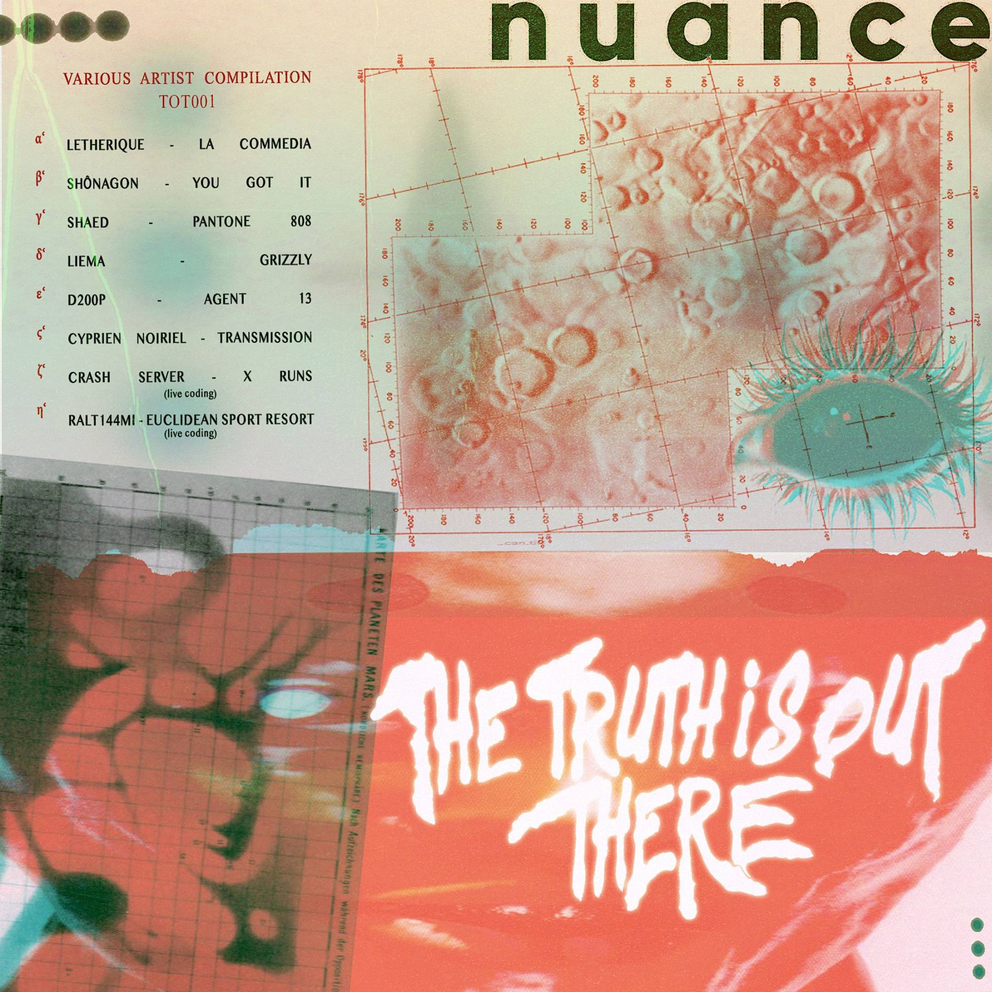
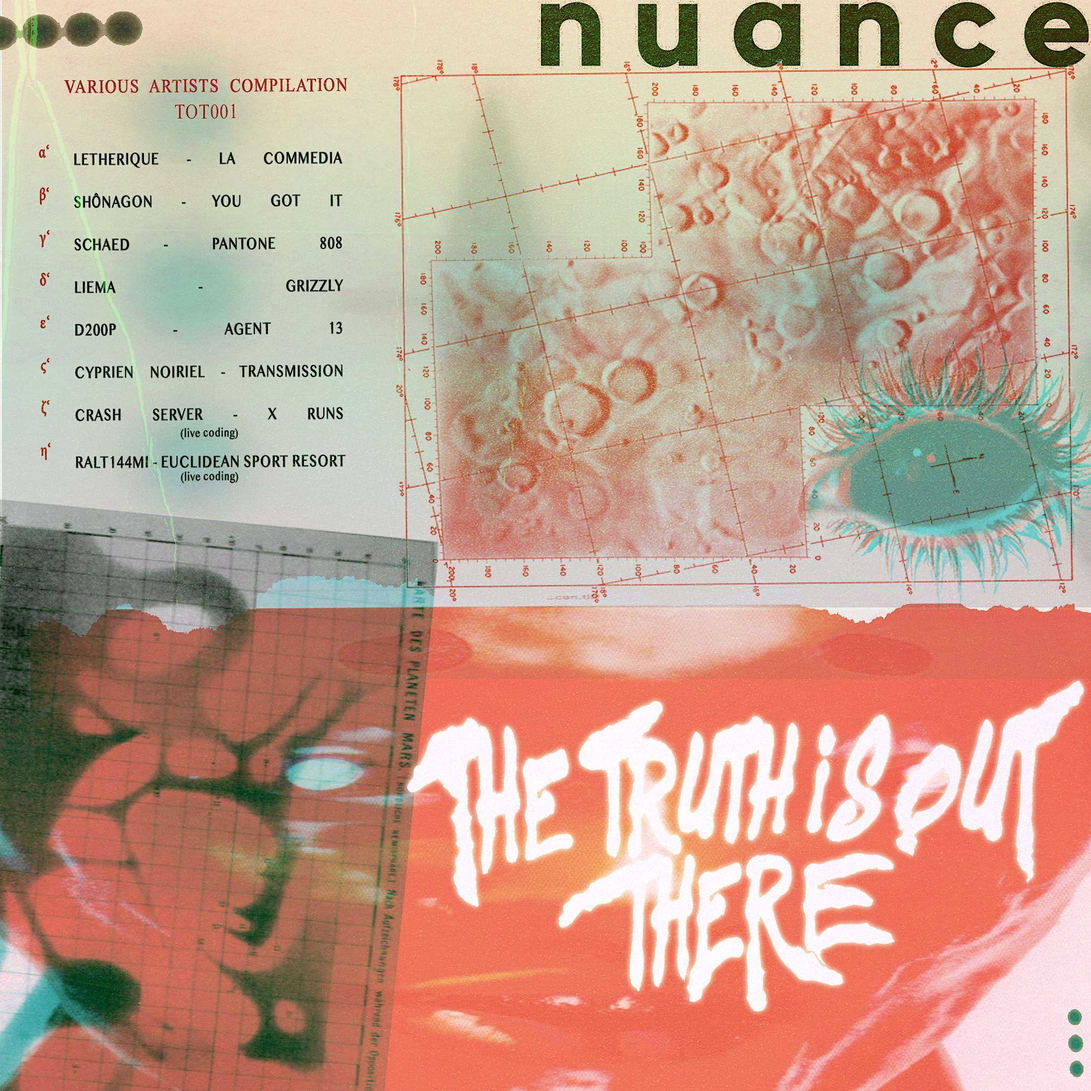
Add releases section, events charter and corrected TOT001 cover
- New "releases" section (nav + band) listing label releases with cover,
  description, tracklist, credits and a Bandcamp purchase link:
  TOT001 The Truth Is Out There (VA) and NUR001 Ciel Noir (Cyprien Noiriel)
- TOT001 tracklist aligned on Bandcamp and the corrected artwork
  (track order, Schaed, D200P, live coding notes)
- Remove the old "label release" block from streaming (moved to releases)
- Add the events charter (charte de bonne conduite) to the agenda section
- Replace hero desktop cover with the corrected TOT001 artwork
- Tighten desktop nav spacing between 1024 and 1280px for the 6th item

Claude-Session: https://claude.ai/code/session_01TZwrwDfyoiQn3kTCmTaK4i

Changed region(s): [[0.062, 0.062, 0.31, 0.093], [0.062, 0.217, 0.124, 0.248]]

diff --git a/App.tsx b/App.tsx
@@ -3,10 +3,11 @@ import React, { useEffect, useRef, useState } from 'react';
 import Hero from './components/Hero';
 import BandSection from './components/BandSection';
 import Footer from './components/Footer';
-import { LIVESTREAMS, EVENTS, SOCIAL_LINKS, STREAM_EMBEDS, PRESS_KIT_URL, ARCHIVE_COLLECTIONS, LABEL_RELEASE, RELEASES } from './constants';
+import { LIVESTREAMS, EVENTS, SOCIAL_LINKS, STREAM_EMBEDS, PRESS_KIT_URL, ARCHIVE_COLLECTIONS, LABEL_RELEASES, RELEASES, CHARTE } from './constants';
 import { motion, useScroll, useSpring, AnimatePresence } from 'framer-motion';
 import { Menu, X } from 'lucide-react';
 import bgVision from './src/assets/images/regenerated_image_1778250332433.jpg';
+import bgReleases from './src/assets/images/band-releases.jpg';
 import bgStreaming from './src/assets/images/regenerated_image_1778250333183.jpg';
 import bgArchives from './src/assets/images/regenerated_image_1778250334116.jpg';
 import bgAgenda from './src/assets/images/regenerated_image_1778250335159.jpg';
@@ -124,7 +125,7 @@ const App: React.FC = () => {
     }
   };
 
-  const menuItems = ['vision', 'streaming', 'archives', 'agenda', 'connect'];
+  const menuItems = ['vision', 'releases', 'streaming', 'archives', 'agenda', 'connect'];
 
   return (
     <div className="relative antialiased bg-black text-white selection:bg-white selection:text-black overflow-x-hidden">
@@ -139,14 +140,14 @@ const App: React.FC = () => {
         </div>
         
         {/* Desktop Nav */}
-        <div className="hidden lg:flex items-center gap-12 text-[29px] leading-[80px]">
+        <div className="hidden lg:flex items-center gap-6 xl:gap-12 text-[29px] leading-[80px]">
           {menuItems.map((item) => {
             const id = item.toLowerCase();
             return (
               <button 
                 key={item} 
                 onClick={() => scrollToSection(id)}
-                className={`text-[17px] font-medium lowercase tracking-[0.4em] transition-opacity ${openSectionId === id ? 'opacity-100 text-white' : 'opacity-20 hover:opacity-100'}`}
+                className={`text-[15px] xl:text-[17px] font-medium lowercase tracking-[0.25em] xl:tracking-[0.4em] transition-opacity ${openSectionId === id ? 'opacity-100 text-white' : 'opacity-20 hover:opacity-100'}`}
               >
                 {item}
               </button>
@@ -246,9 +247,118 @@ const App: React.FC = () => {
           </div>
         </BandSection>
 
-        <BandSection 
-          index={1} 
-          id="streaming" 
+        <BandSection
+          index={1}
+          id="releases"
+          title="releases"
+          isOpen={openSectionId === 'releases'}
+          onToggle={() => toggleSection('releases')}
+          subtitle="sorties du label nuance recording / disponibles sur bandcamp."
+          bgImage={bgReleases}
+        >
+          <div className="space-y-20 md:space-y-32">
+            {LABEL_RELEASES.map((release, idx) => {
+              const isCompilation = release.artist === 'various artists';
+              return (
+                <article
+                  key={release.id}
+                  id={`release-${release.id}`}
+                  className={`grid grid-cols-1 lg:grid-cols-12 gap-8 lg:gap-16 ${idx > 0 ? 'pt-20 md:pt-32 border-t border-white/5' : ''}`}
+                >
+                  {/* Pochette */}
+                  <div className="lg:col-span-5">
+                    <a
+                      href={release.bandcampUrl}
+                      target="_blank"
+                      rel="noopener noreferrer"
+                      className="block relative aspect-square overflow-hidden border border-white/10 group lg:sticky lg:top-28"
+                    >
+                      <img
+                        src={release.cover}
+                        alt={`${release.catalog} — ${release.title} — ${release.artist}`}
+                        loading="lazy"
+                        className="w-full h-full object-cover transition-transform duration-1000 group-hover:scale-105"
+                      />
+                    </a>
+                  </div>
+
+                  {/* Infos */}
+                  <div className="lg:col-span-7 space-y-10 md:space-y-12">
+                    <div className="space-y-4">
+                      <div className="flex flex-wrap gap-x-6 gap-y-2 text-[10px] uppercase tracking-[0.4em] text-white/30 font-bold">
+                        <span>[{release.catalog}]</span>
+                        <span>{release.date}</span>
+                        <span>{release.format}</span>
+                      </div>
+                      <h3 className="text-4xl md:text-6xl font-bold lowercase tracking-tighter leading-none">
+                        {release.title}
+                      </h3>
+                      <p className="text-[11px] md:text-[13px] font-bold lowercase tracking-[0.3em] text-white/50">
+                        {release.artist}
+                      </p>
+                    </div>
+
+                    <p className="text-sm md:text-base leading-relaxed text-white/70 max-w-2xl">
+                      {release.description}
+                    </p>
+
+                    <a
+                      href={release.bandcampUrl}
+                      target="_blank"
+                      rel="noopener noreferrer"
+                      className="inline-flex items-center gap-3 text-[11px] md:text-[12px] font-bold lowercase tracking-[0.3em] bg-white text-black border border-white px-6 py-4 hover:bg-transparent hover:text-white transition-all"
+                    >
+                      acheter sur bandcamp <span aria-hidden="true">↗</span>
+                    </a>
+
+                    {/* Tracklist */}
+                    <div className="space-y-4">
+                      <h4 className="text-[11px] lowercase font-bold tracking-[0.4em] text-white/40">/// tracklist</h4>
+                      <ol>
+                        {release.tracklist.map((track) => (
+                          <li key={track.position} className="flex items-baseline gap-4 py-3 border-b border-white/5 group/track hover:border-white/20 transition-colors">
+                            <span className="text-[9px] uppercase text-white/20 font-bold w-5 shrink-0">{track.position}</span>
+                            {isCompilation ? (
+                              <>
+                                <span className="text-[11px] font-bold lowercase tracking-widest text-white/60 group-hover/track:text-white transition-colors">{track.artist}</span>
+                                <span className="text-[10px] lowercase tracking-widest text-white/30 italic ml-auto text-right">
+                                  {track.title}
+                                  {track.note && <span className="not-italic text-white/20"> ({track.note})</span>}
+                                </span>
+                              </>
+                            ) : (
+                              <span className="text-[11px] font-bold lowercase tracking-widest text-white/60 group-hover/track:text-white transition-colors">
+                                {track.title}
+                                {track.note && <span className="font-normal text-white/20"> ({track.note})</span>}
+                              </span>
+                            )}
+                          </li>
+                        ))}
+                      </ol>
+                    </div>
+
+                    {/* Crédits */}
+                    <div className="space-y-4">
+                      <h4 className="text-[11px] lowercase font-bold tracking-[0.4em] text-white/40">/// credits</h4>
+                      <dl className="grid grid-cols-1 sm:grid-cols-2 gap-x-8 gap-y-4">
+                        {release.credits.map((credit) => (
+                          <div key={credit.role} className="flex flex-col gap-1">
+                            <dt className="text-[9px] uppercase tracking-[0.4em] text-white/20 font-bold">{credit.role}</dt>
+                            <dd className="text-[11px] lowercase tracking-widest text-white/60">{credit.name}</dd>
+                          </div>
+                        ))}
+                      </dl>
+                    </div>
+                  </div>
+                </article>
+              );
+            })}
+          </div>
+        </BandSection>
+
+        <BandSection
+          index={2}
+          id="streaming"
           title="streaming" 
           isOpen={openSectionId === 'streaming'}
           onToggle={() => toggleSection('streaming')}
@@ -276,37 +386,10 @@ const App: React.FC = () => {
               </a>
             ))}
           </div>
-
-          {/* Release label */}
-          <div className="mt-16 md:mt-24 border-t border-white/5 pt-12 md:pt-16">
-            <div className="flex flex-col md:flex-row md:items-start justify-between gap-8 md:gap-16">
-              <div className="space-y-4 md:w-1/2">
-                <span className="text-[9px] uppercase tracking-[0.5em] text-white/20 font-bold block">/// label release</span>
-                <h3 className="text-4xl md:text-6xl font-bold lowercase tracking-tighter leading-none">
-                  {LABEL_RELEASE.title}
-                </h3>
-                <div className="flex gap-6 pt-2 text-[10px] uppercase tracking-[0.4em] text-white/30 font-bold">
-                  <span>[{LABEL_RELEASE.catalog}]</span>
-                  <span>{LABEL_RELEASE.date}</span>
-                  <span>{LABEL_RELEASE.label}</span>
-                </div>
-                <p className="text-[10px] lowercase tracking-widest text-white/20 pt-2">artwork — {LABEL_RELEASE.artwork}</p>
-              </div>
-              <div className="md:w-1/2 space-y-0">
-                {LABEL_RELEASE.tracklist.map((track, i) => (
-                  <div key={i} className="flex items-baseline gap-4 py-3 border-b border-white/5 group hover:border-white/20 transition-colors">
-                    <span className="text-[9px] text-white/20 font-bold w-4 shrink-0">{String(i + 1).padStart(2, '0')}</span>
-                    <span className="text-[11px] font-bold lowercase tracking-widest text-white/60 group-hover:text-white transition-colors">{track.artist}</span>
-                    <span className="text-[10px] lowercase tracking-widest text-white/25 italic ml-auto">{track.title}</span>
-                  </div>
-                ))}
-              </div>
-            </div>
-          </div>
         </BandSection>
 
         <BandSection
-          index={2}
+          index={3}
           id="archives" 
           title="archives" 
           isOpen={openSectionId === 'archives'}
@@ -388,7 +471,7 @@ const App: React.FC = () => {
         </BandSection>
 
         <BandSection 
-          index={3} 
+          index={4} 
           id="agenda" 
           title="agenda" 
           isOpen={openSectionId === 'agenda'}
@@ -427,6 +510,28 @@ const App: React.FC = () => {
               </div>
             ))}
 
+            {/* Charte de bonne conduite */}
+            {CHARTE.length > 0 && (
+              <div id="charte" className="mt-12 md:mt-16 pt-10 md:pt-12 border-t border-white/5 px-2 md:px-6">
+                <div className="grid grid-cols-1 lg:grid-cols-12 gap-8 lg:gap-16">
+                  <div className="lg:col-span-4 space-y-4">
+                    <h3 className="text-[11px] lowercase font-bold tracking-[0.4em] text-white/40">/// charte</h3>
+                    <h4 className="text-3xl md:text-4xl font-bold lowercase tracking-tighter leading-tight">
+                      prenez soin les uns des autres.
+                    </h4>
+                  </div>
+                  <ol className="lg:col-span-8">
+                    {CHARTE.map((paragraph, i) => (
+                      <li key={i} className="flex gap-4 md:gap-6 py-4 md:py-5 border-b border-white/5">
+                        <span className="text-[9px] text-white/20 font-bold w-5 shrink-0 pt-1">{String(i + 1).padStart(2, '0')}</span>
+                        <p className="text-[13px] md:text-[15px] leading-relaxed text-white/70">{paragraph}</p>
+                      </li>
+                    ))}
+                  </ol>
+                </div>
+              </div>
+            )}
+
             {/* Past events */}
             {EVENTS.filter(e => e.type === 'past').length > 0 && (
               <div className="mt-12 md:mt-16 pt-8 border-t border-white/5">
@@ -450,7 +555,7 @@ const App: React.FC = () => {
         </BandSection>
 
         <BandSection 
-          index={4} 
+          index={5} 
           id="connect" 
           title="connect" 
           isOpen={openSectionId === 'connect'}

diff --git a/constants.tsx b/constants.tsx
@@ -1,5 +1,7 @@
 
-import { Event, Livestream, Podcast, SocialLink } from './types';
+import { Event, LabelRelease, Livestream, Podcast, SocialLink } from './types';
+import coverTot001 from './src/assets/images/compilation-cover.jpg';
+import coverNur001 from './src/assets/images/releases/nur001-ciel-noir.jpg';
 
 export const PRESS_KIT_URL = "https://drive.google.com/file/d/1PTl3Q23ZzlNUY0Y4ykZFHc0MnZrslq45/view?usp=sharing";
 
@@ -67,23 +69,81 @@ export const RELEASES = [
   // ajouter chaque nouvelle sortie ici — apparaît automatiquement dans archives
 ];
 
-export const LABEL_RELEASE = {
-  catalog: 'TOT001',
-  title: 'the truth is out there',
-  label: 'nuance recording',
-  date: '18.11.2026',
-  artwork: '@bertanoezsoy',
-  tracklist: [
-    { artist: 'letherique', title: 'la commedia' },
-    { artist: 'shaed', title: 'pantone 808' },
-    { artist: 'shônagon', title: 'you got it' },
-    { artist: 'liema', title: 'grizzly' },
-    { artist: 'cyprien noiriel', title: 'transmission' },
-    { artist: 'd2000p', title: 'agent 13' },
-    { artist: 'crash server', title: 'x runs' },
-    { artist: 'ralt144mi', title: 'euclidean sports resort' },
-  ]
-};
+// sorties du label nuance recording — catégorie "releases"
+// ajouter chaque nouvelle sortie en haut de la liste (la plus récente d'abord)
+export const LABEL_RELEASES: LabelRelease[] = [
+  {
+    id: 'tot001',
+    catalog: 'TOT001',
+    title: 'the truth is out there',
+    artist: 'various artists',
+    format: 'various artists compilation',
+    date: '18.11.2026',
+    cover: coverTot001,
+    description: "“The Truth Is Out There” unfolds in the space between what we see and what we can explain, where a light streaks across the sky and vanishes, leaving only a strange shadow and an unanswered question. It’s a collective search for meaning in the unknown, guided by the certainty that something lies beyond our reach…",
+    tracklist: [
+      { position: '01', artist: 'letherique', title: 'la commedia' },
+      { position: '02', artist: 'shônagon', title: 'you got it' },
+      { position: '03', artist: 'schaed', title: 'pantone 808' },
+      { position: '04', artist: 'liema', title: 'grizzly' },
+      { position: '05', artist: 'd200p', title: 'agent 13' },
+      { position: '06', artist: 'cyprien noiriel', title: 'transmission' },
+      { position: '07', artist: 'crash server', title: 'x runs', note: 'live coding' },
+      { position: '08', artist: 'ralt144mi', title: 'euclidean sports resort', note: 'live coding' },
+    ],
+    credits: [
+      { role: 'label', name: 'nuance recording' },
+      { role: 'release', name: '18.11.2026 — all platforms' },
+      { role: 'mastering', name: '4bstr4cker' },
+      { role: 'artwork', name: 'Bertan Özsoy' },
+    ],
+    bandcampUrl: 'https://nuancerecording.bandcamp.com/album/tot001-the-truth-is-out-there-va-compilation',
+  },
+  {
+    id: 'nur001',
+    catalog: 'NUR001',
+    title: 'ciel noir',
+    artist: 'cyprien noiriel',
+    format: 'album',
+    date: '15.02.2026',
+    cover: coverNur001,
+    description: "“Ciel Noir” reflects the pervasive unease and quiet anxiety gripping society today. Through an introspective exploration, it examines illness, life, and death, unveiling the malaise eroding our world and its inequalities, while paying homage to the departed.",
+    tracklist: [
+      { position: 'A1', artist: 'cyprien noiriel', title: "ils m'observent" },
+      { position: 'A2', artist: 'cyprien noiriel', title: 'ciel noir' },
+      { position: 'A3', artist: 'cyprien noiriel', title: 'road rage' },
+      { position: 'A4', artist: 'cyprien noiriel', title: 'anthem of the flies' },
+      { position: 'B1', artist: 'cyprien noiriel', title: 'inhale' },
+      { position: 'B2', artist: 'cyprien noiriel', title: 'interrupted dream' },
+      { position: 'B3', artist: 'cyprien noiriel', title: 'exhale' },
+      { position: 'B4', artist: 'cyprien noiriel', title: 'detox' },
+    ],
+    credits: [
+      { role: 'written & produced by', name: 'Cyprien Noiriel' },
+      { role: 'label', name: 'nuance recording' },
+      { role: 'mixed by', name: 'Letherique / Bella Ursa' },
+      { role: 'mastered by', name: 'Zarkoff / Sensorium' },
+      { role: 'designed by', name: 'Patrick Strajnic / Galerie Decorde' },
+      { role: 'distributed by', name: 'Vinyl Future & Deejay DE' },
+      { role: 'manufactured by', name: 'B Side' },
+    ],
+    bandcampUrl: 'https://nuancerecording.bandcamp.com/album/nur001-ciel-noir-cyprien-noiriel',
+  },
+];
+
+// charte de bonne conduite — affichée dans la section agenda
+export const CHARTE: string[] = [
+  "Lors de nos événements, n'oubliez pas de prendre soin les uns des autres comme si nous étions une seule famille.",
+  "Adoptez des comportements responsables et raisonnables dans votre façon de faire la fête et laissez les excès de côté.",
+  "Il s'agit avant tout de votre santé et de votre sécurité, mais aussi de notre responsabilité et de celle du lieu qui ouvre ses portes à notre collectif.",
+  "La piste de danse est le cœur battant de la fête : un lieu de liberté, de mouvement et d'énergie collective. Nous croyons en une philosophie où la piste de danse passe avant tout : un espace dédié à la joie, à l'expression de soi et à la convivialité.",
+  "Respectez-vous, respectez les autres et respectez le rythme de la musique. Donnez à chacun l'espace dont il a besoin pour danser, bouger et profiter du moment présent. Évitez de pousser, de bousculer ou de marcher sur les personnes autour de vous. Veillez les uns sur les autres et, si quelqu'un semble mal à l'aise, offrez-lui votre gentillesse et votre attention.",
+  "En honorant la piste de danse et ceux qui la partagent avec vous, nous créons un espace sûr, inclusif et dynamique où chacun peut vraiment se lâcher et faire la fête.",
+  "Respectez l'espace, le consentement et le corps de chacun et soyez attentif aux autres.",
+  "Prenez vos responsabilités, celles de vos actes et de vos paroles.",
+  "Le respect du corps et du consentement de chacun est essentiel pour une fête où chacun se sent en sécurité et à l'aise.",
+  "Si vous remarquez un comportement dangereux ou discriminatoire, qu'il soit sexiste, raciste, homophobe ou toute autre forme d'agression ou de harcèlement, n'hésitez pas à le signaler immédiatement au personnel et aux membres de notre collectif.",
+];
 
 export const EVENTS: Event[] = [
   {

diff --git a/types.ts b/types.ts
@@ -29,6 +29,27 @@ export interface Podcast {
   url: string;
 }
 
+export interface LabelReleaseTrack {
+  position: string;
+  artist: string;
+  title: string;
+  note?: string;
+}
+
+export interface LabelRelease {
+  id: string;
+  catalog: string;
+  title: string;
+  artist: string;
+  format: string;
+  date: string;
+  cover: string;
+  description: string;
+  tracklist: LabelReleaseTrack[];
+  credits: { role: string; name: string }[];
+  bandcampUrl: string;
+}
+
 export interface SocialLink {
   name: string;
   url: string;
